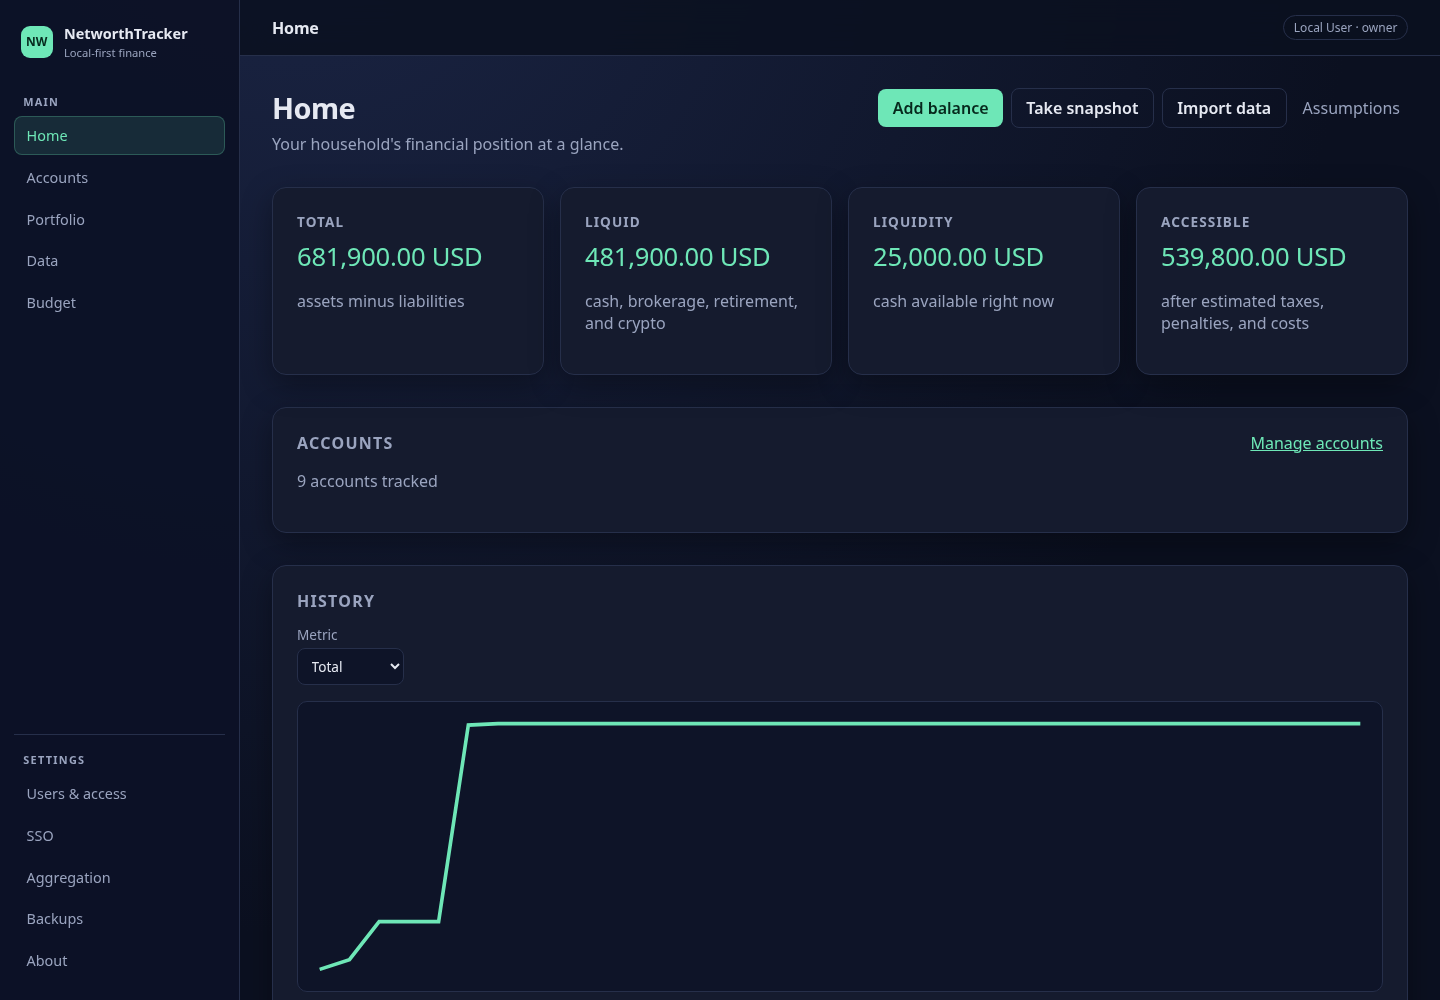
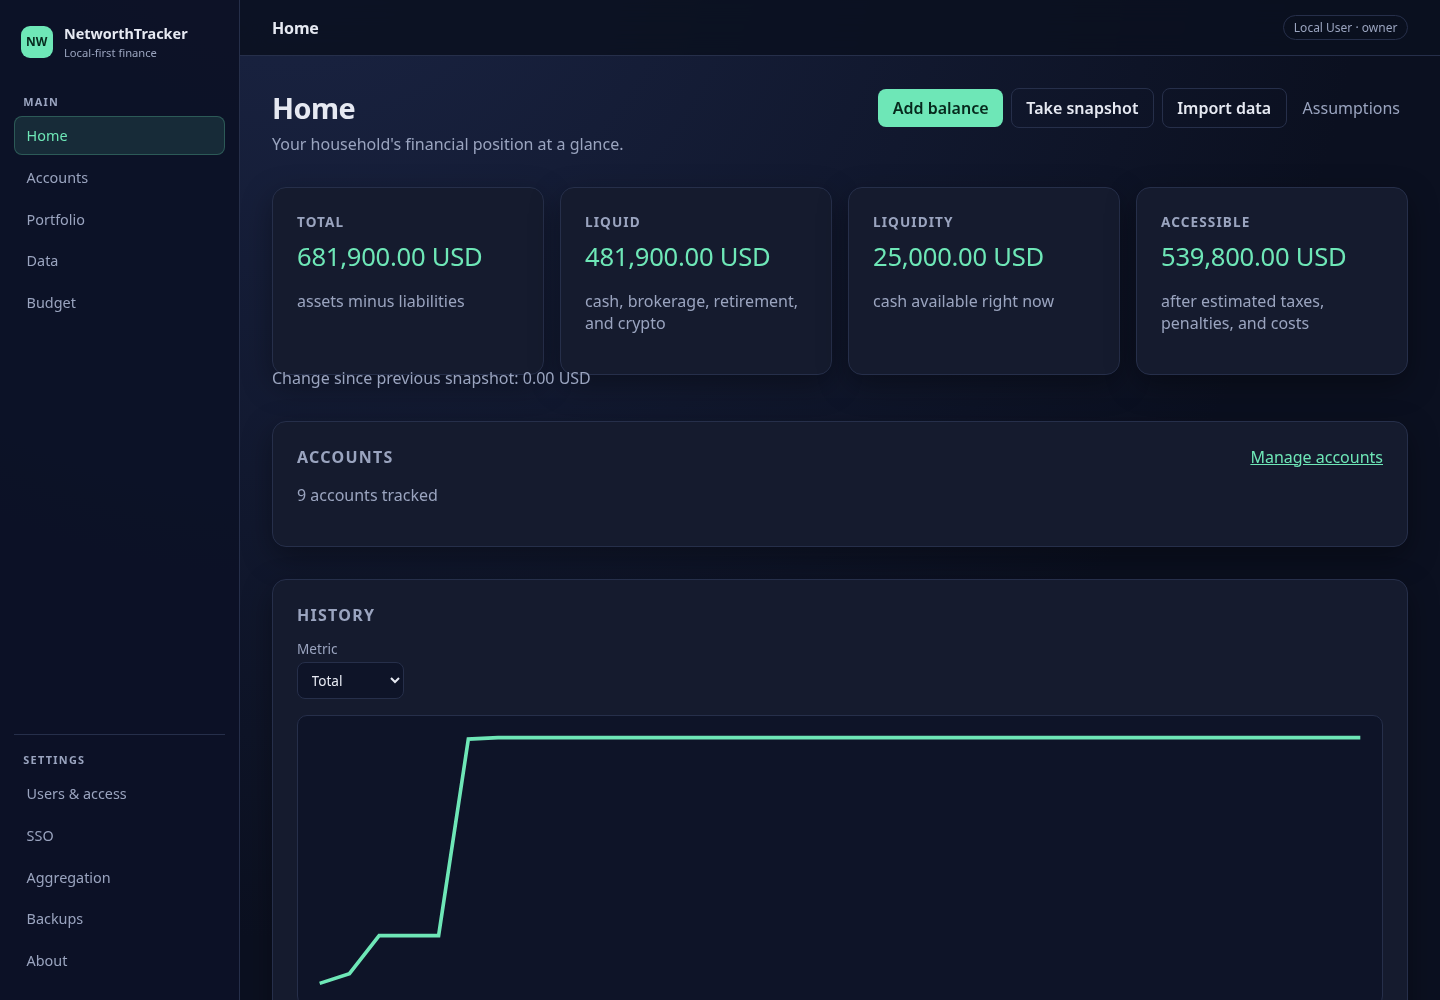
feat: show dashboard period change and refresh screenshots

diff --git a/frontend/src/features/networth/NetWorthView.tsx b/frontend/src/features/networth/NetWorthView.tsx
@@ -65,6 +65,30 @@ function formatAmount(amount: string, currency: string): string {
   return `${fraction !== undefined ? `${grouped}.${fraction}` : grouped} ${currency}`;
 }
 
+/** Exact display subtraction for snapshot values; never uses floating point. */
+function decimalSubtract(latest: string, previous: string): string {
+  const parse = (value: string) => {
+    const negative = value.trim().startsWith("-");
+    const [whole, fraction = ""] = value.trim().replace(/^[-+]/, "").split(".");
+    return { negative, whole, fraction };
+  };
+  const left = parse(latest);
+  const right = parse(previous);
+  const scale = Math.max(left.fraction.length, right.fraction.length);
+  const toInt = (part: { negative: boolean; whole: string; fraction: string }) => {
+    const digits = `${part.whole}${part.fraction.padEnd(scale, "0")}` || "0";
+    const value = BigInt(digits);
+    return part.negative ? -value : value;
+  };
+  let difference = toInt(left) - toInt(right);
+  const negative = difference < 0n;
+  if (negative) difference = -difference;
+  const text = difference.toString().padStart(scale + 1, "0");
+  const whole = text.slice(0, text.length - scale) || "0";
+  const fraction = scale > 0 ? `.${text.slice(text.length - scale)}` : "";
+  return `${negative ? "-" : ""}${whole}${fraction}`;
+}
+
 function HistoryChart({
   snapshots,
   kind,
@@ -148,6 +172,13 @@ export default function NetWorthView() {
   });
 
   const data = networth.data;
+  const snapshotList = snapshots.data ?? [];
+  const latestSnapshot = snapshotList.at(-1);
+  const previousSnapshot = snapshotList.at(-2);
+  const periodChange =
+    latestSnapshot && previousSnapshot
+      ? decimalSubtract(latestSnapshot.total, previousSnapshot.total)
+      : null;
 
   return (
     <section aria-label="net worth">
@@ -192,6 +223,12 @@ export default function NetWorthView() {
           </article>
         ))}
       </div>
+
+      <p className="muted dashboard-change">
+        {periodChange !== null && data
+          ? `Change since previous snapshot: ${formatAmount(periodChange, data.currency)}`
+          : "Take at least two snapshots to see a period change."}
+      </p>
 
       {networth.isError && (
         <p className="error" role="alert">

diff --git a/frontend/src/features/networth/NetWorthView.test.tsx b/frontend/src/features/networth/NetWorthView.test.tsx
@@ -115,6 +115,9 @@ describe("NetWorthView", () => {
     expect(screen.getByText("150,000.00 USD")).toBeInTheDocument();
     expect(screen.getAllByText("10,000.00 USD").length).toBeGreaterThan(0);
     expect(screen.getByText("550,000.00 USD")).toBeInTheDocument();
+    expect(
+      screen.getByText(/Change since previous snapshot: 10,000.00 USD/),
+    ).toBeInTheDocument();
   });
 
   it("shows the breakdown and manual-data badge", async () => {

diff --git a/frontend/src/index.css b/frontend/src/index.css
@@ -1094,3 +1094,8 @@ a:hover {
   color: var(--accent);
   border-color: rgba(110, 231, 183, 0.35);
 }
+
+.dashboard-change {
+  margin: -0.5rem 0 1.5rem;
+  font-variant-numeric: tabular-nums;
+}
